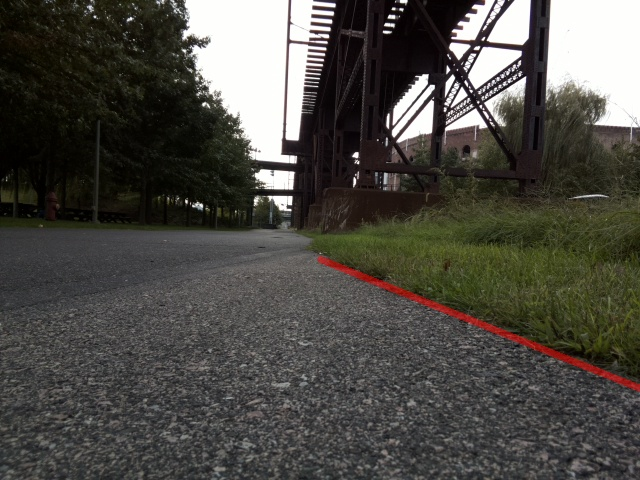
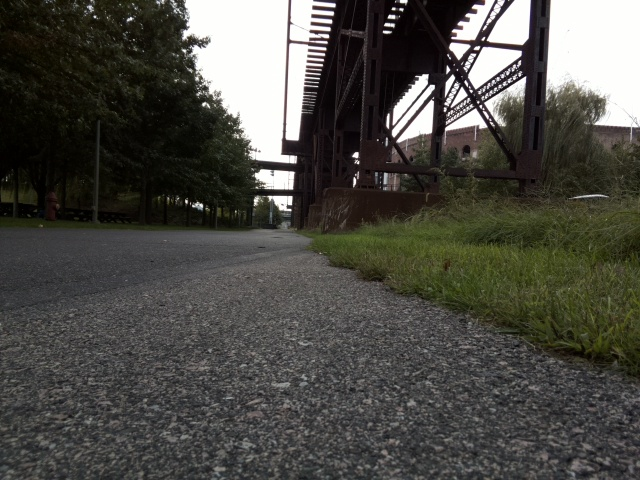
fix cv 2.4 issue

Changed region(s): [[0.6562, 0.625, 1.0, 0.8125], [0.5, 0.5312, 0.6562, 0.625]]

diff --git a/PathFinder2.py b/PathFinder2.py
@@ -9,7 +9,7 @@ import random
 #import picamera
 #from picamera.array import PiRGBArray
 warnings.filterwarnings('error')
-def sideBySide(img1, img2, destName):
+def sideBySide(img1, img2, destName=""):
     dims1 = img1.shape
     dims2 = img2.shape
     if len(dims1) < len(dims2):
@@ -20,6 +20,7 @@ def sideBySide(img1, img2, destName):
         toWrite = np.hstack((img1, temp))
     else:
         toWrite = np.hstack((img1, img2))
+    return toWrite
     cv2.imwrite(destName, toWrite)
 
 def maxContour(contours):
@@ -29,6 +30,8 @@ def maxContour(contours):
     maxIdx = -1
     maxLen = -1 #cv2.arcLength(maxCont, False)
     for i, c in enumerate(contours):
+        
+
         nextLen = cv2.arcLength(c, False)
         if nextLen > maxLen:
             maxCont = c
@@ -80,6 +83,7 @@ class FindEdge():
         self.leftLine = None
 
         self.d_desired = 3
+        self.temp = None
 
 
     def set_new_image(self, image):
@@ -87,6 +91,7 @@ class FindEdge():
         self.cropped_image = self.cur_image[self.removePixels:, :]
         self.y_dim, self.x_dim, _ = image.shape
         self.y_dimC, self.x_dimC, _ = self.cropped_image.shape
+        self.temp = image
         self.set_preproc_cur_image()
 
     def set_line(self, vx, vy, x, y, left):
@@ -119,9 +124,9 @@ class FindEdge():
         vmean = np.mean(v[yBox, xBox])
 
         
-        epsH = 30
-        epsS = 20
-        epsV = 20
+        epsH = 50
+        epsS = 30
+        epsV = 30
         threshH = cv2.inRange(h, hmean - epsH, hmean + epsH)
         threshS = cv2.inRange(s, smean - epsS, smean + epsS)
         threshV = cv2.inRange(v, vmean - epsV, vmean + epsV)
@@ -139,12 +144,17 @@ class FindEdge():
         #cv2.imwrite('sThresh.jpg', threshS)
         #cv2.imwrite('vThresh.jpg', threshV)
         try:
-            cont, contours, hierarchy = cv2.findContours(self.proc_img[:, :], cv2.RETR_TREE,
+            contours, hierarchy = cv2.findContours(self.proc_img[:, :], cv2.RETR_TREE,
                                                          cv2.CHAIN_APPROX_SIMPLE)
             c, i = maxContour(contours)
-            cv2.imwrite('combined.jpg', cv2.drawContours(temp,contours,i, (255,0,0), 3))
-        except:
-            cont, contour, hierarchy = None, None, None
+            cv2.drawContours(self.temp,contours,i, (255,0,0), 3)
+            
+            #cv2.imwrite('combined.jpg', cv2.drawContours(temp,contours,i, (255,0,0), 3))
+        except Excetion as e:
+            print "error in proc image"
+            print e
+            contour, hierarchy = None, None, None
+            self.temp = threshS
         
 
 
@@ -153,25 +163,30 @@ class FindEdge():
         cropBy = self.x_dimC/2
         image = self.proc_img[:, -cropBy:]
         try:
-            cont, contours, hierarchy = cv2.findContours(image, cv2.RETR_TREE, cv2.CHAIN_APPROX_SIMPLE)
-        except:
+            
+            #cont, contours, hierarchy = cv2.findContours(image, cv2.RETR_TREE, cv2.CHAIN_APPROX_SIMPLE)
+            contours, _ =  cv2.findContours(image, cv2.RETR_TREE, cv2.CHAIN_APPROX_SIMPLE)
+        except Exception as e:
+            print e
             cont, contours, hierarchy = None, None, None
         c, i = maxContour(contours)
         temp = np.copy(c)
         #offset contour back to full image
-        thresh = 200 if not self.look_left else 500
+        thresh = 100 if not self.look_left else 500
         if c is not None and cv2.arcLength(c, False) > thresh:
             temp[:,:,0] = temp[:,:,0] + self.x_dimC/2*np.ones_like(c[:,:,0])
             temp[:, :, 1] = temp[:, :, 1] + self.removePixels* np.ones_like(c[:, :, 0])
-            [vx, vy, x, y] = cv2.fitLine(temp, cv2.DIST_L2, 0, 0.01, 0.01)
+            [vx, vy, x, y] = cv2.fitLine(temp, cv2.cv.CV_DIST_L2, 0, 0.01, 0.01)
             self.set_line(vx,vy,x,y,False)
             self.lostCount = 0 #reset counter for finding the road
-            cv2.imwrite('collectR.jpg', cv2.drawContours(image, contours, i, (255, 0, 0), 3))
+            cv2.drawContours(image, contours, i, (255, 0, 0), 3)
+            cv2.imwrite('collectR.jpg', image)
         else:
             #if we can't find the road
             if self.lostCount >= 10:
                 self.rightLine = None
-            cv2.imwrite('collectR.jpg', cv2.drawContours(image, contours, -1, (255, 0, 0), 3))
+            cv2.drawContours(image, contours, -1, (255, 0, 0), 3)
+            cv2.imwrite('collectR.jpg', image)
             self.lostCount += 1
 
 
@@ -215,8 +230,8 @@ class FindEdge():
             temp = np.copy(self.cur_image)
             #cv2.rectangle(temp, (self.carX+35, self.carY), (self.carX,self.carY-243), (0, 255, 0), 4)
             cv2.line(temp, (self.x_dim, righty), (self.x_dim/2, lefty), (0, 0, 255), 5)
-            return temp
-        return self.cur_image
+            return temp,self.proc_img
+        return self.proc_img, self.temp
 
     def draw_l_edge(self):
         if self.leftLine is not None:
@@ -225,7 +240,7 @@ class FindEdge():
             temp = np.copy(self.cur_image)
             cv2.line(temp, (self.x_dim/2, righty), (0, lefty), (0, 255, 0), 5)
             return temp
-        return self.cur_image
+        return self.proc_img
 
     def draw_des_edge(self):
         if self.look_left:
@@ -269,10 +284,9 @@ class FindEdge():
             self.collect_edge_R()
             curLine = self.rightLine
         if curLine is None:
-            print 0
             return 0
         m = float(curLine(self.x_dim) - curLine(0)) / self.x_dim
-        print m-0.3
+        print m-1.2
         return self.calc_road_offset()/5 - (m-0.3)
 
 

diff --git a/Bus.py b/Bus.py
@@ -9,6 +9,7 @@ from threading import Lock
 from ArduinoCom import ArduinoCom
 from Follower import findRibbon
 from PathFinder2 import FindEdge
+import numpy as np
 
 print __name__
 ########################################################################################################################
@@ -20,7 +21,7 @@ gpsV = 0
 psiD = -20
 desiredOffset = 3
 curOffset = 3
-camLookLeft = True
+camLookLeft = False
 lastNode = 'A'
 speedD = 50
 gpsPsi = 0
@@ -97,7 +98,7 @@ class CameraThread(threading.Thread):
 
         camera = picamera.PiCamera()
         photoHeight = 540
-        image_size = (960, 544)  # (16*photoHeight/9, photoHeight)
+        image_size = (960/2, 544/2)  # (16*photoHeight/9, photoHeight)
         camera.resolution = image_size  # (960, 540)#(16*photoHeight/9, photoHeight)
         camera.framerate = 7
         camera.vflip = False
@@ -106,7 +107,7 @@ class CameraThread(threading.Thread):
         rawCapture = PiRGBArray(camera, size=image_size)
         # allow the camera to warmup
         time.sleep(0.1)
-        edgeFinder = FindEdge(None,200)
+        edgeFinder = FindEdge(None,image_size[1]/2)
         print 'ready for loop'
 
         for frame in camera.capture_continuous(rawCapture, format="bgr", use_video_port=True):
@@ -116,19 +117,22 @@ class CameraThread(threading.Thread):
                 image = frame.array
                 rawCapture.truncate()
                 rawCapture.seek(0)
-
+                
                 edgeFinder.set_look_left(camLookLeft)
 
                 # show the frame
                 # lines.project_on_road_debug(image)
                 edgeFinder.set_new_image(image)
                 edgeFinder.collect_des_edge()
-                edge = edgeFinder.draw_des_edge()
+                edge,pic = edgeFinder.draw_des_edge()
                 psiD = edgeFinder.calc_phi_r()
                 
-                
-
-                cv2.imshow("Rpi lane detection", edge)
+                imgray = cv2.cvtColor(image,cv2.COLOR_RGB2GRAY)
+                retr, thresh = cv2.threshold(imgray,127,255,0)
+                contours, _ = cv2.findContours(thresh, cv2.RETR_TREE, cv2.CHAIN_APPROX_SIMPLE)
+                temp = cv2.drawContours(image, contours, -1, (255,0,0))
+                cv2.imshow("edge", edge)
+                cv2.imshow("org", pic)
 
                 key = cv2.waitKey(1) & 0xFF
 
@@ -233,7 +237,6 @@ class RibbonTrackThread(threading.Thread):
                 # and occupied/unoccupied text
                 image = frame.array
                 ribbonFinder.setImage(image)
-
                 cv2.imshow("RibbonFinder", ribbonFinder.findRib())
                 key = cv2.waitKey(1) & 0xFF
 
